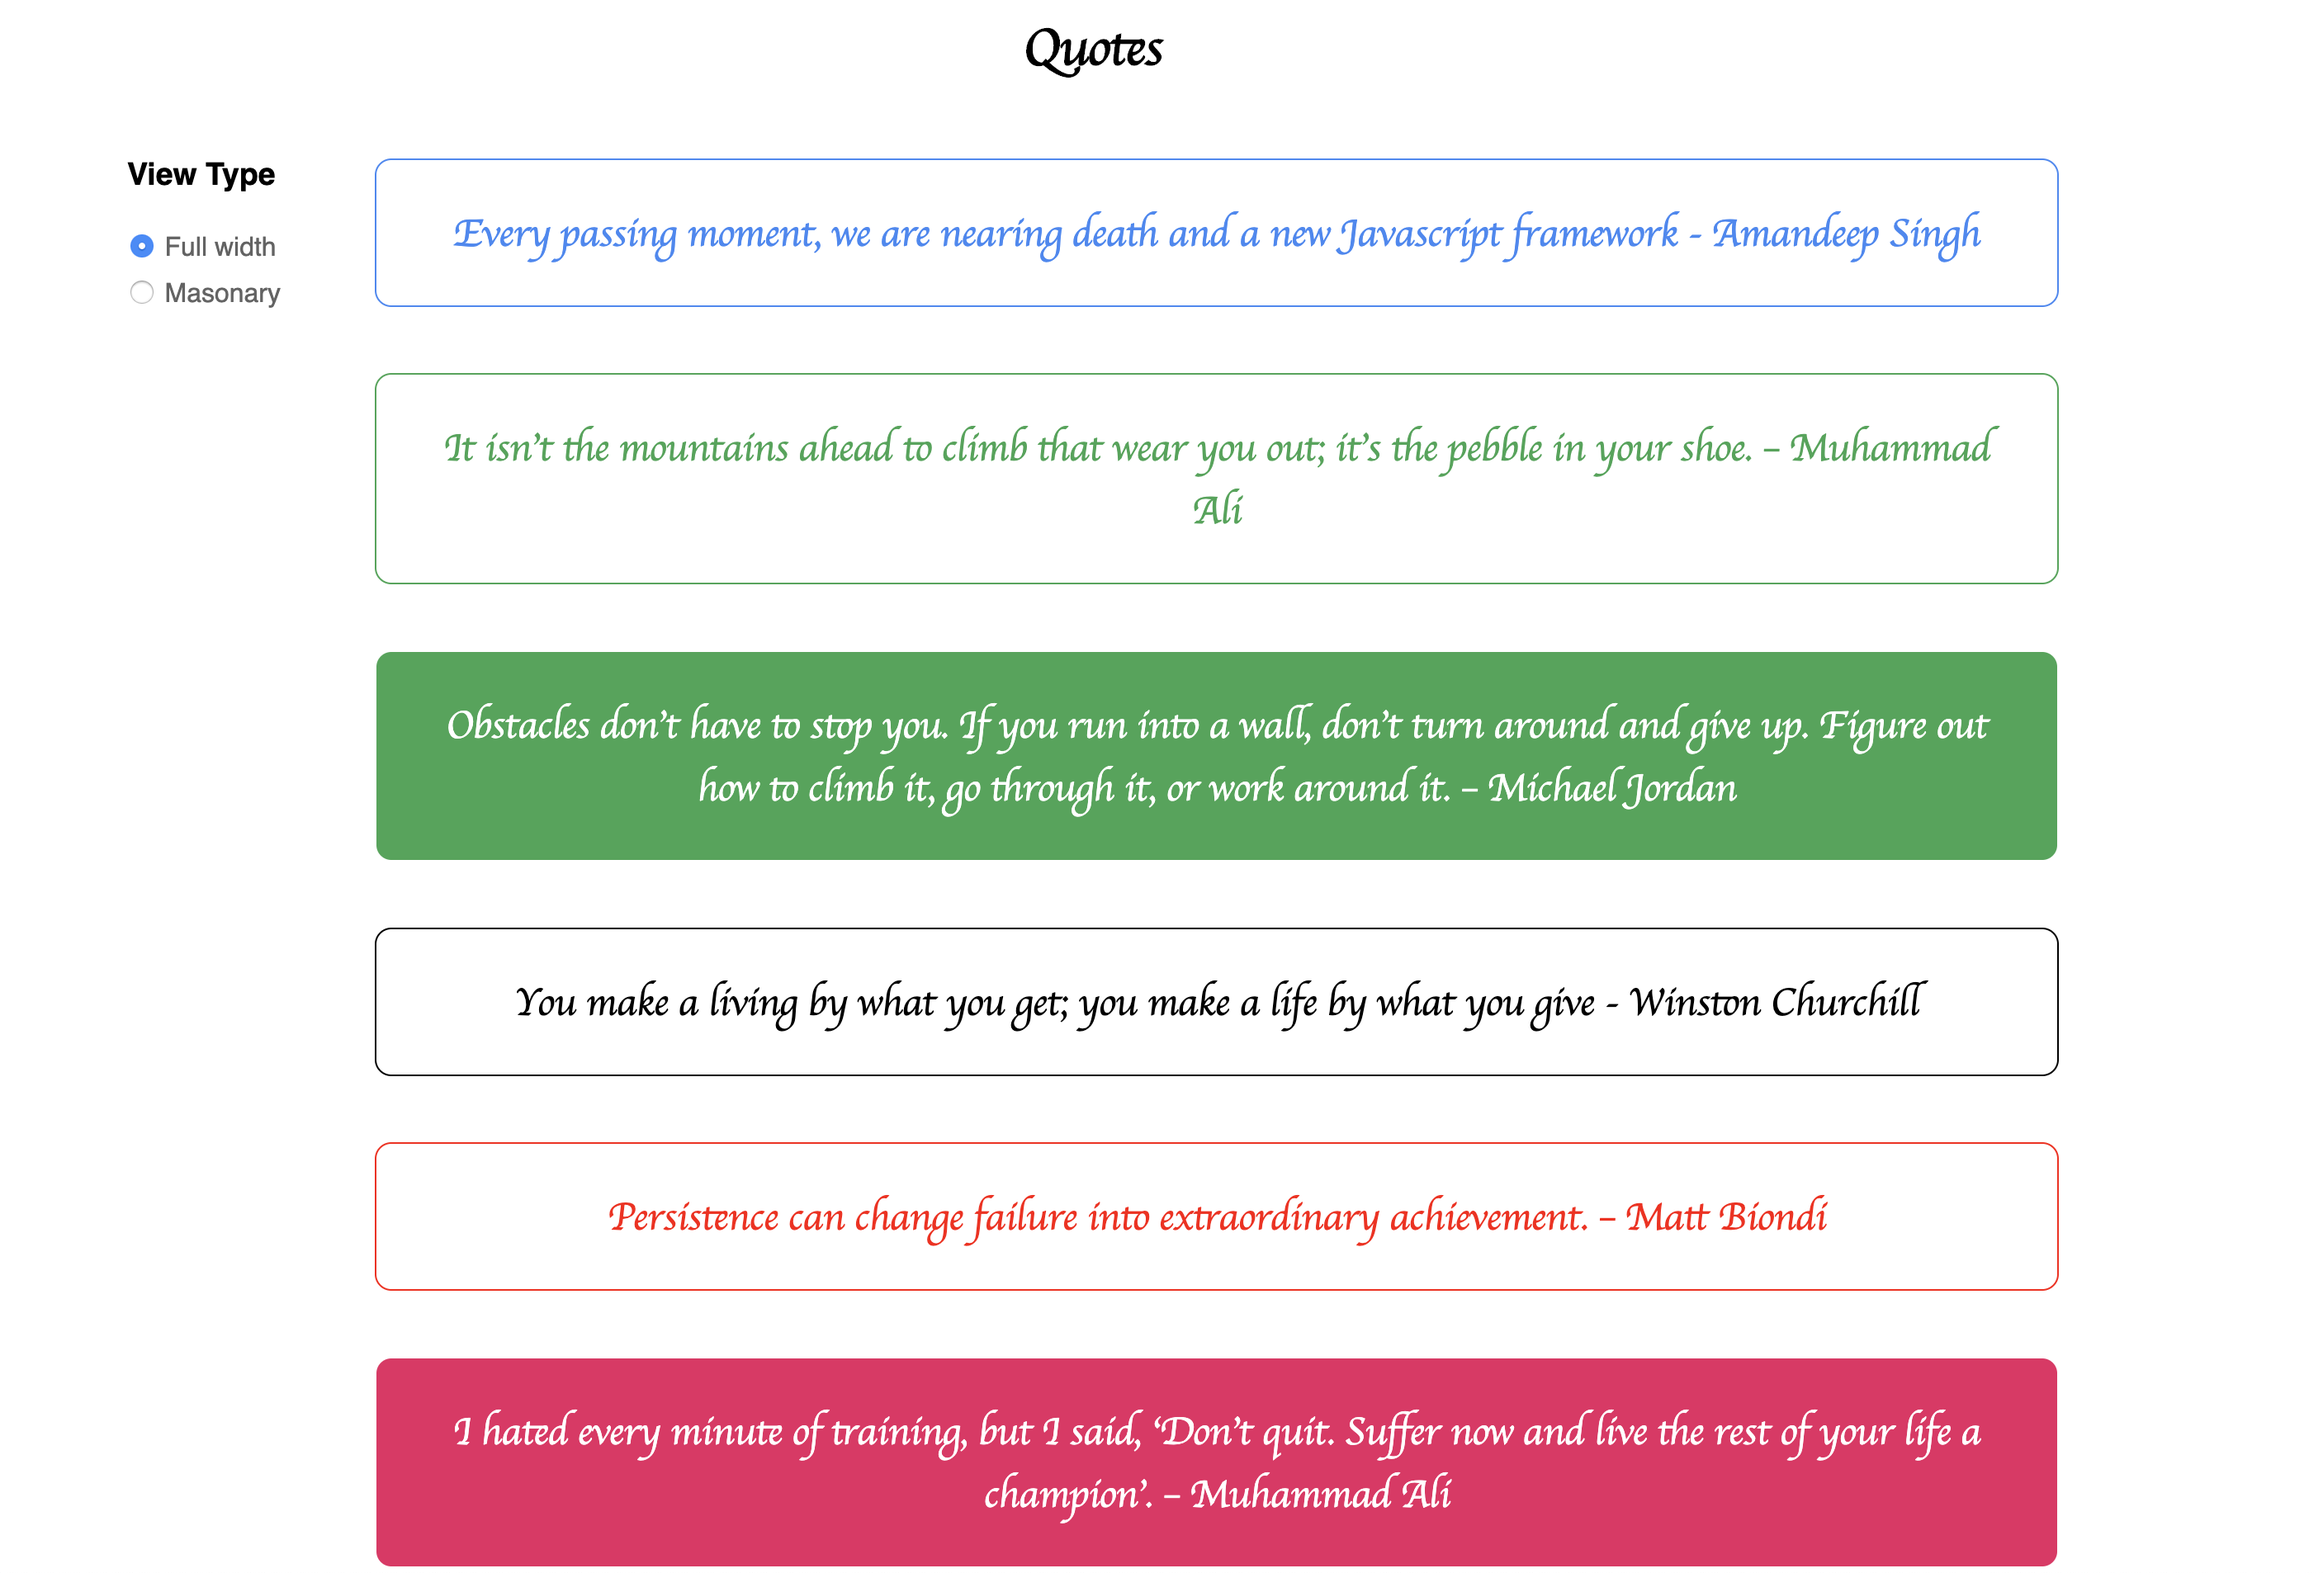
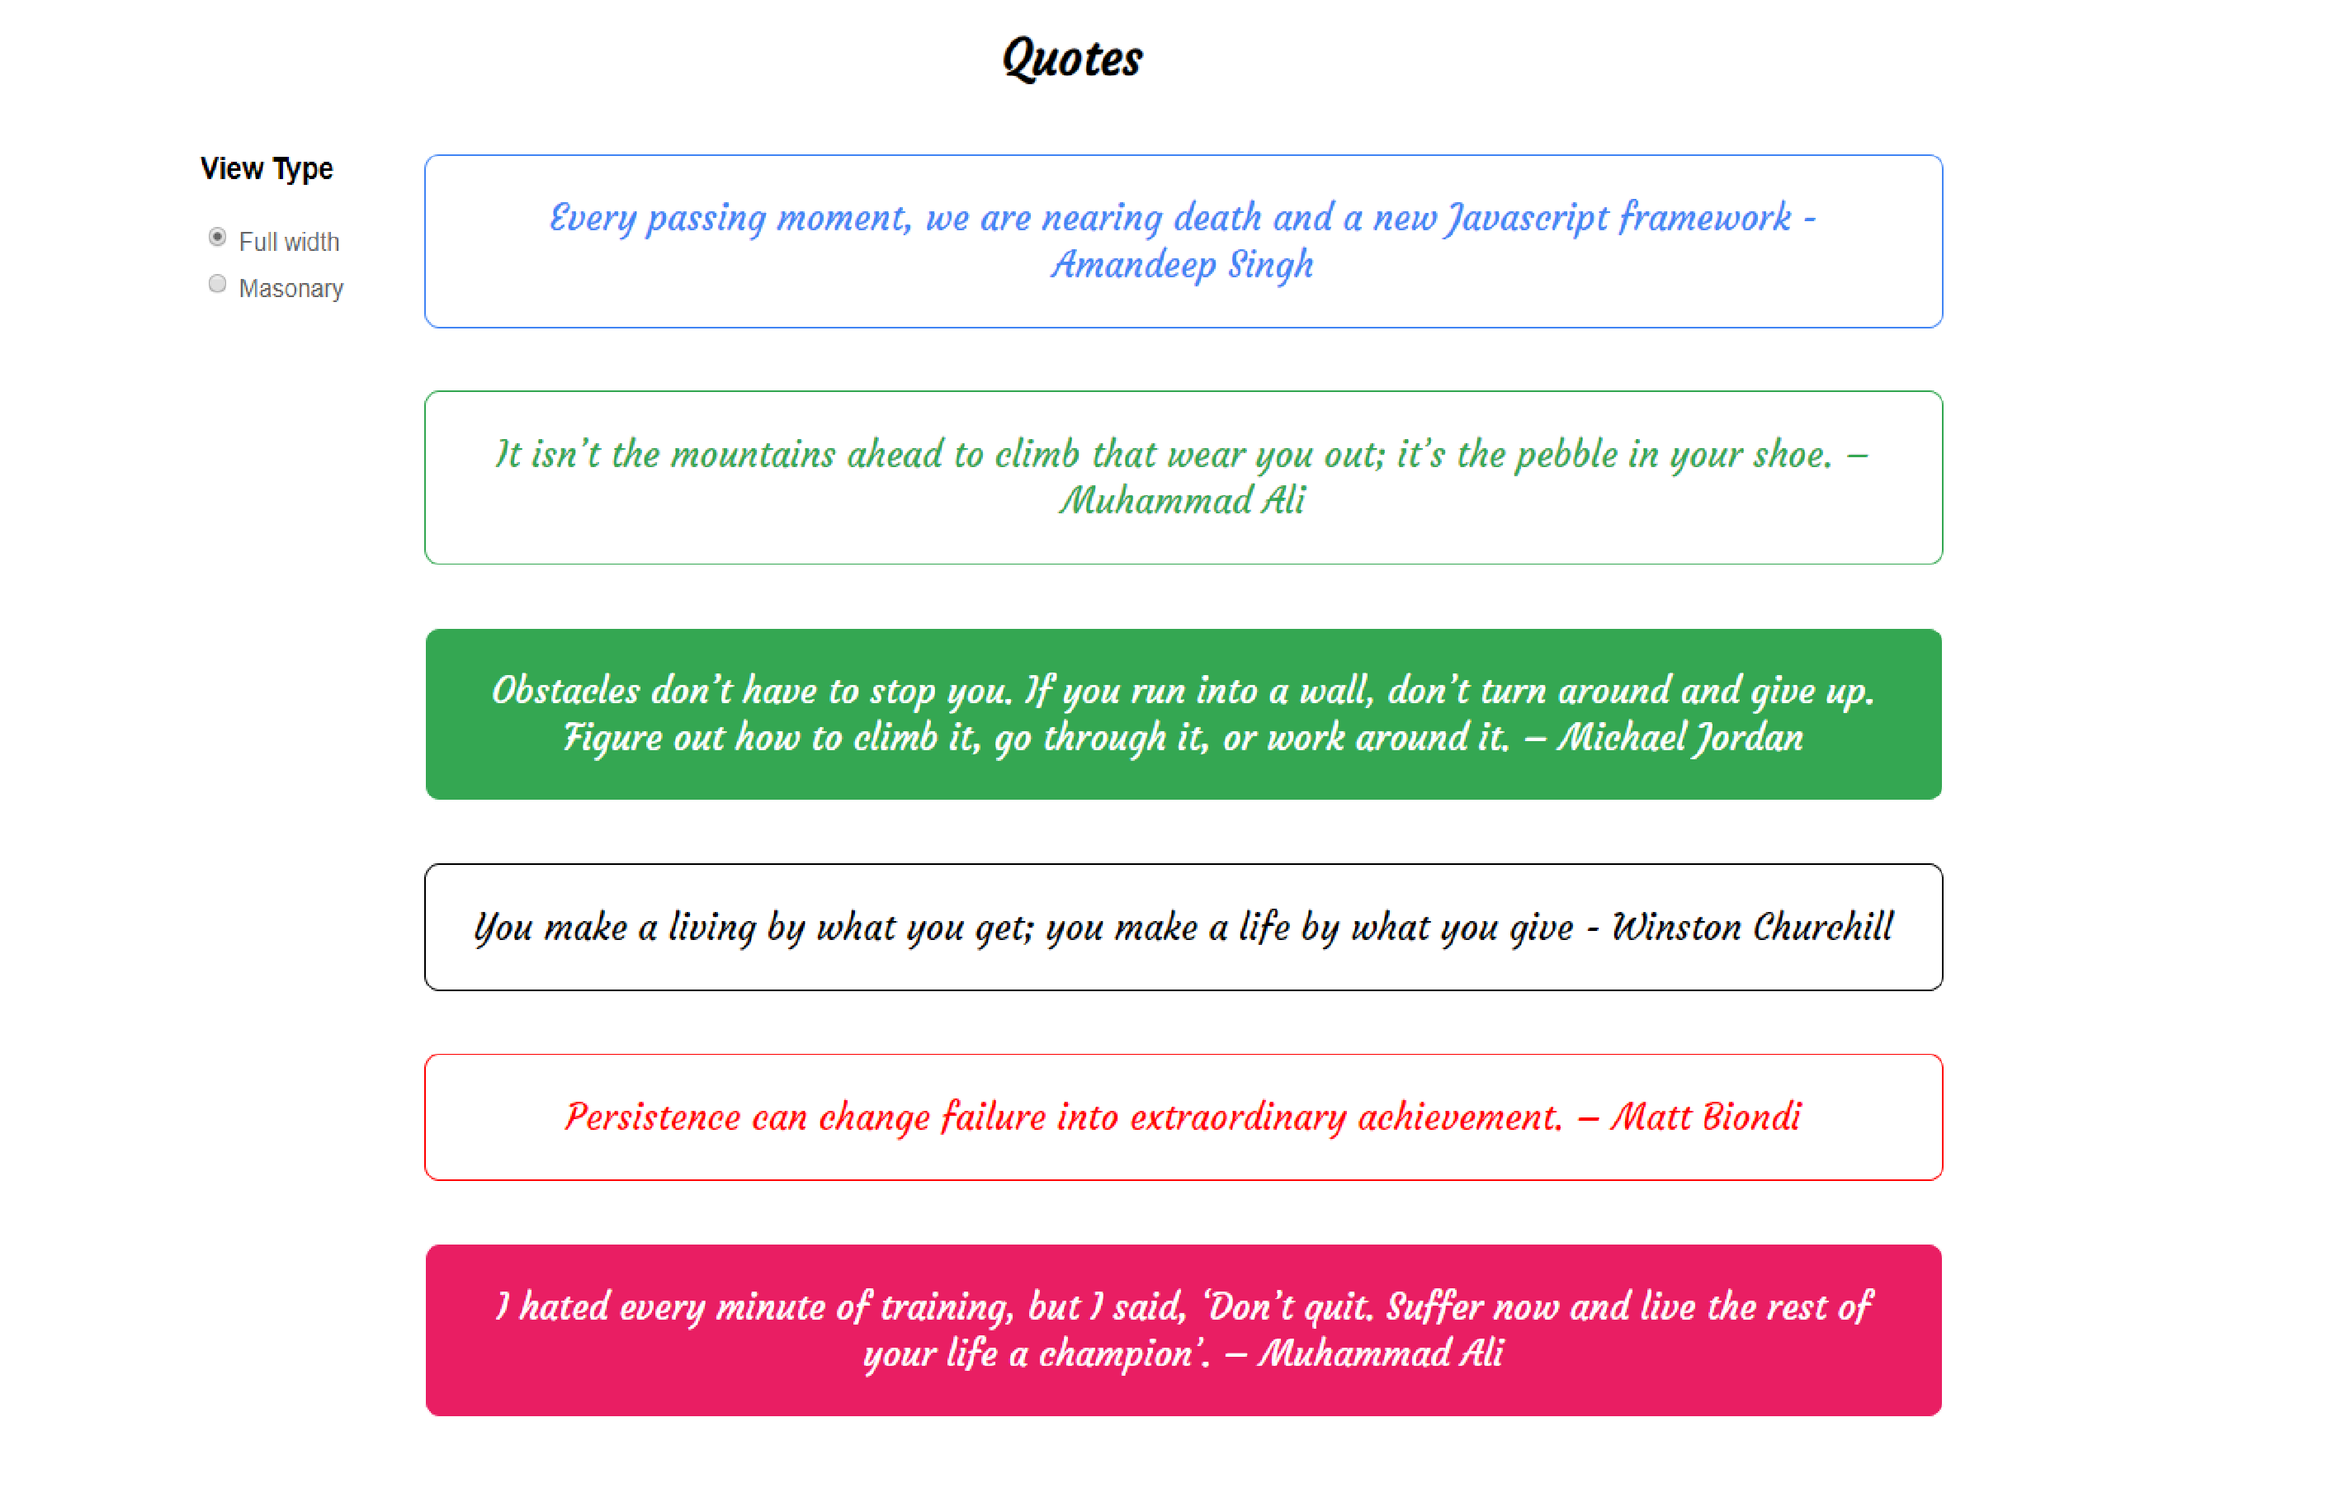
Added `Courgette` font-face

diff --git a/main.css b/main.css
@@ -9,7 +9,7 @@ body {
 }
 
 h1 {
-  font-family: cursive;
+  font-family: Courgette;
   text-align: center;
 }
 
@@ -42,7 +42,7 @@ h1 {
   padding: 25px 30px;
   border-radius: 10px;
   transition: all 0.25s;
-  font-family: cursive;
+  font-family: Courgette;
   font-size: 24px;
   text-align: center;
   width: 100%;
@@ -137,6 +137,6 @@ label span {
 
 @media screen and (min-width: 1180px) {
   .quotes-container--masonary {
-    height: 2000px;
+    height: 1500px;
   }
 }

diff --git a/index.html b/index.html
@@ -4,6 +4,7 @@
     <meta charset="UTF-8" />
     <meta name="viewport" content="width=device-width, initial-scale=1.0" />
     <title>React Quotes App</title>
+    <link rel="stylesheet" href="https://fonts.googleapis.com/css?family=Courgette" />
     <link rel="stylesheet" href="./main.css" />
   </head>
 
